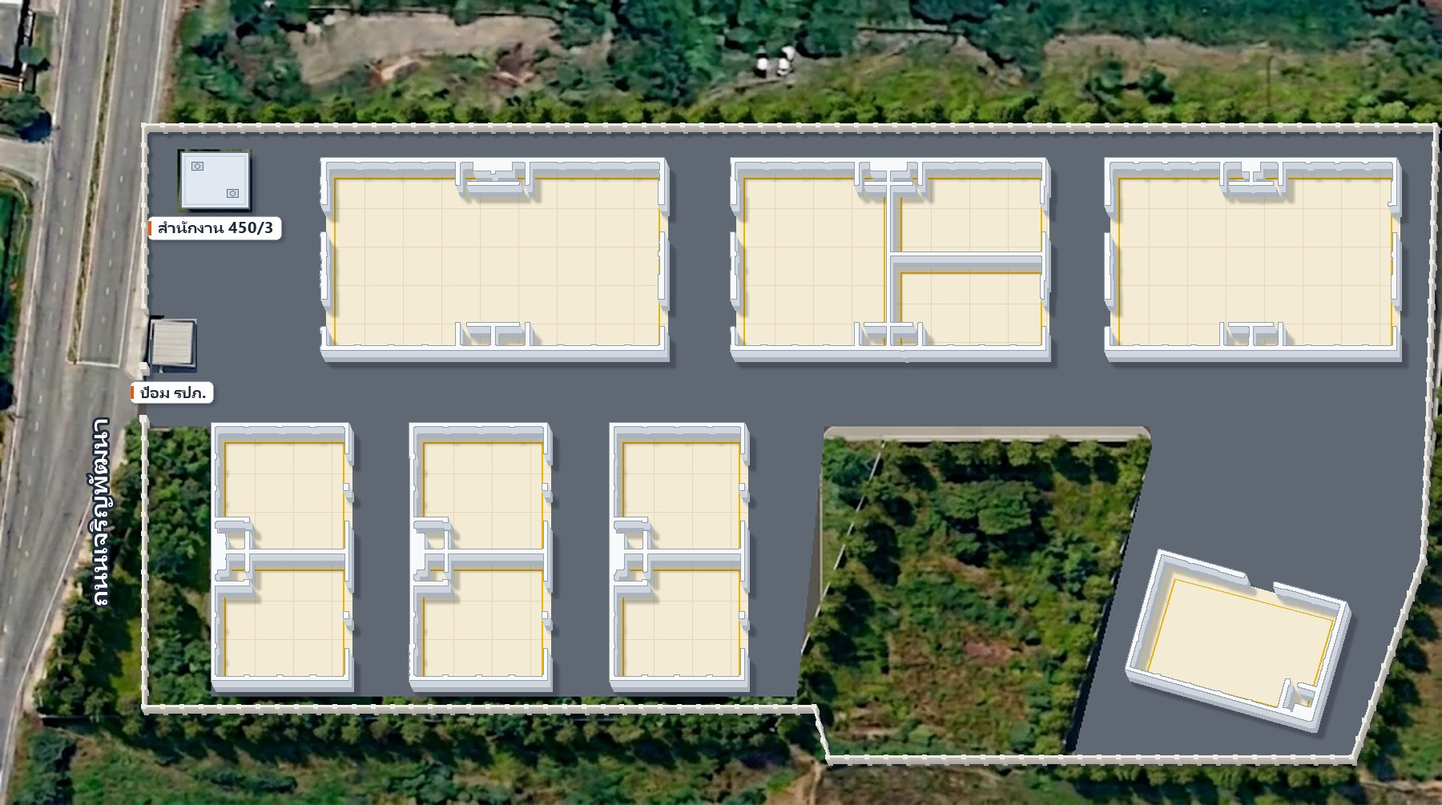
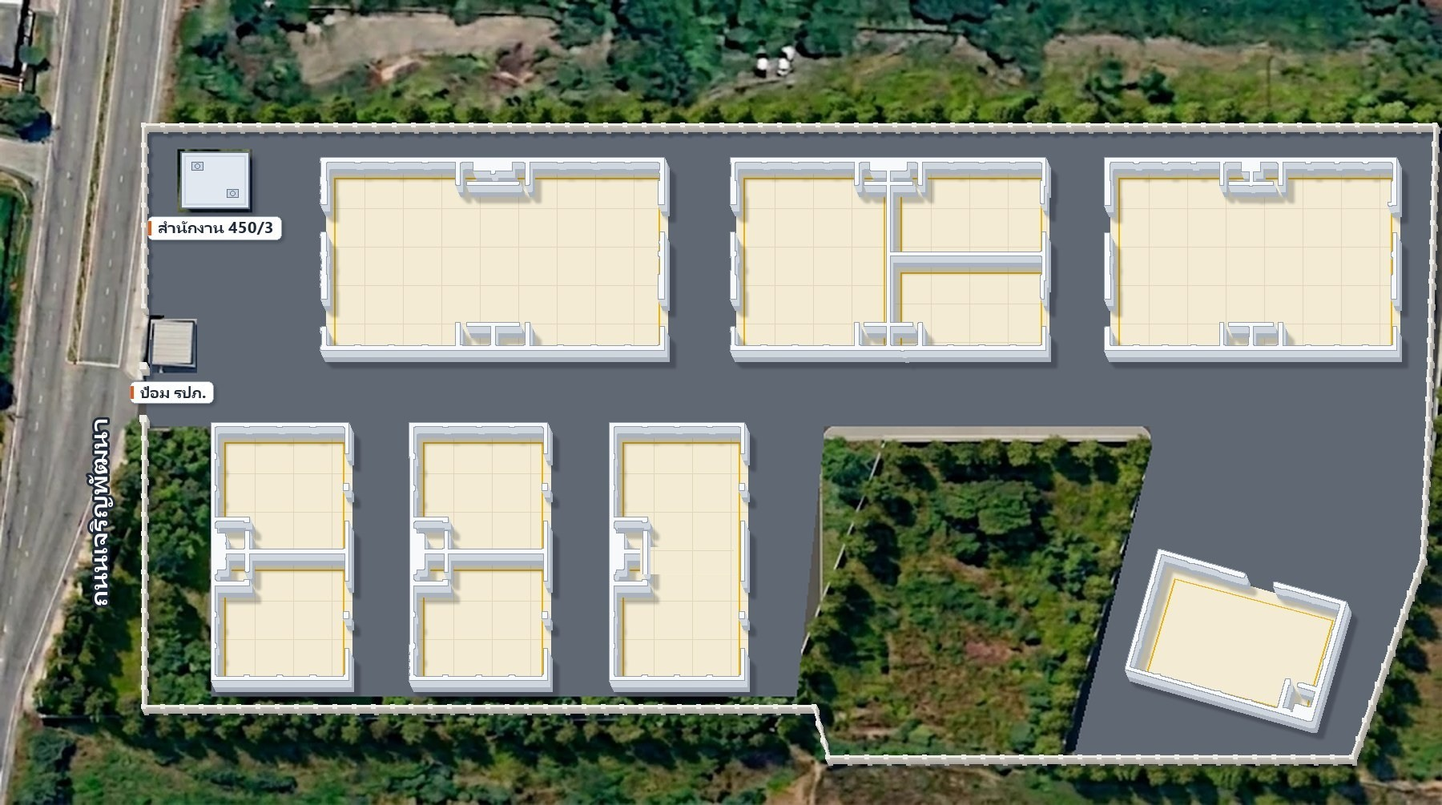
Add files via upload
- แก้ชื่อ บริษัท
- ใส่ช่องประกันกุญแจ
- รวม 448/2 AB

Changed region(s): [[0.4356, 0.6786, 0.5289, 0.7095]]

diff --git a/js/core/contract.js b/js/core/contract.js
@@ -14,7 +14,8 @@ import * as L from './layout.js';
 import { SITE } from '../../site.js';
 
 // ชื่อ/ที่อยู่ผู้ให้เช่า และบัญชีรับเงิน มาจาก ตั้งค่า → ข้อมูลโครงการ
-const PN = en => { const p = M.property(); return (en ? p.nameEn || p.name : p.name) || ''; };
+// ชื่อผู้ให้เช่าในสัญญา: ชื่อนิติบุคคล (ตั้งค่า → ข้อมูลโครงการ หรือ legalName ใน site.js) ถ้าไม่มีใช้ชื่อโครงการ
+const PN = en => { const p = M.property(); return (en ? p.nameEn || p.name : (p.legalName ?? SITE.legalName) || p.name) || ''; };
 const ADDR = en => { const p = M.property(); return (en ? p.addressEn || p.address : p.address) || ''; };
 const BANK = en => M.property().bankText || (en ? 'the bank account notified by the Lessor' : 'บัญชีธนาคารที่ผู้ให้เช่าแจ้งไว้');
 const WIFI = () => M.property().wifi ? 'Wifi password: ' + M.property().wifi : '';
@@ -62,7 +63,7 @@ export function defaults(t) {
   };
 }
 const extraList = C => (C.extras || []).filter(x => has(x.name) || has(x.amt));
-export const total = C => C.kind === 'wh' ? (Number(C.deposit) || 0) + (Number(C.clean) || 0) : ['firstAmount', 'deposit', 'clean', 'fridgeFee', 'motoFee'].reduce((a, k) => a + (Number(C[k]) || 0), 0) + extraList(C).reduce((a, x) => a + (Number(x.amt) || 0), 0);
+export const total = C => C.kind === 'wh' ? (Number(C.deposit) || 0) + (Number(C.clean) || 0) + (Number(C.keyDep) || 0) : ['firstAmount', 'deposit', 'clean', 'fridgeFee', 'motoFee'].reduce((a, k) => a + (Number(C[k]) || 0), 0) + extraList(C).reduce((a, x) => a + (Number(x.amt) || 0), 0);
 
 // ---------- บล็อกเนื้อหา ----------
 // run: { t: ข้อความ, c: สี, b, i, u, dots: จำนวนจุด (ช่องว่าง), nw: ห้ามตัดบรรทัด (กลุ่ม) }
@@ -200,7 +201,7 @@ export function defaultsWH(t) {
     tenantSigner: t.signer || '', phone: t.phone || '',
     lessorSigner: p.signer || prev.lessorSigner || '', witness1: prev.witness1 || '', witness2: '',
     start, end: oneYearEnd(start), rent: String(rent), penalty: String(rent), dueDay: String(M.rates().dueDay || 5),
-    deposit: String(Number(t.deposit) || rent * 2), clean: '3000',
+    deposit: String(Number(t.deposit) || rent * 2), clean: '3000', keyDep: '',
     wRate: String(rt.water ?? 17), wMinUnits: '10', wMinAmount: '160', eRate: String(rt.elec ?? 7), eTable: E_TABLE,
     meterE: last?.e != null ? String(last.e) : '', meterW: last?.w != null ? String(last.w) : '', photos: [],
   };
@@ -223,7 +224,7 @@ const siteStreet = () => ADDR().replace(/^\s*(เลขที่\s*)?[\d/\-]+\s*
 
 function contentWH(C, x) {
   const p = M.property(), co = C.tenantType !== 'person';
-  const money2b = v => money2(v), dep = Number(C.deposit) || 0, cln = Number(C.clean) || 0, tot = dep + cln;
+  const money2b = v => money2(v), dep = Number(C.deposit) || 0, cln = Number(C.clean) || 0, key = Number(C.keyDep) || 0, tot = dep + cln + key;
   const et = String(C.eTable || E_TABLE).split(/[,\s]+/).filter(Boolean);
   const eRows = Array.from({ length: 11 }, (_, i) => i < 10
     ? [String(i), et[i] ?? '', String(11 + i), et[11 + i] ?? '']
@@ -248,6 +249,7 @@ function contentWH(C, x) {
     { k: 'p', in: 1, runs: [B('ข้อที่ 3. '), T('เพื่อเป็นการประกันความเสียหายจากการประพฤติผิดสัญญา “ผู้เช่า” ตกลงวางเงินประกันเป็นจำนวนทั้งสิ้น '), NW(C_(money2(tot), 'red'), T(' บาท')), T(' '), NW(T('('), C_(bahtText(tot), 'red'), T(')')), T(' ประกอบด้วย')] },
     { k: 'items', word: '', unit: 'บาท', rows: [['-', [T('เงินประกันความเสียหาย')], has(C.deposit) ? C_(money2(dep), 'blue') : D(8)],
       ['-', [T('เงินประกันการทำความสะอาด กวาด ถู ไม่มีคราบกาว หรืออันใดที่ต้องใช้สารพิเศษ')], has(C.clean) ? C_(money2(cln), 'blue') : D(8)],
+      ...(key ? [['-', [T('เงินประกันกุญแจ')], C_(money2(key), 'blue')]] : []),
       ['', [B('รวมเป็นจำนวนเงิน')], { ...C_(money2(tot), 'red'), b: 1 }]] },
     { k: 'p', in: 1, runs: [T('หากผู้เช่าไม่ชำระค่าเช่าหรือประพฤติผิดสัญญาข้อหนึ่งข้อใดและทำให้ผู้ให้เช่าได้รับความเสียหายด้วยประการใด ๆ ผู้เช่ายินยอมให้ผู้ให้เช่าหักเงินประกันจำนวนนี้ได้ เพื่อชดใช้ความเสียหายที่ผู้ให้เช่าได้รับตามจำนวนความเสียหายที่แท้จริง หากมีเงินประกันเหลืออยู่อีกเท่าใด ผู้ให้เช่าจะต้องคืนให้แก่ผู้เช่าหลังจากที่ผู้เช่าส่งมอบสถานที่เช่าคืนให้แก่ผู้ให้เช่าเป็นที่เรียบร้อย')] },
     { k: 'p', in: 1, runs: [EM('เงินประกันการเช่านี้ ใช้สำหรับเป็นประกันความเสียหายของสินทรัพย์เท่านั้น ไม่สามารถใช้หักเป็นค่าเช่าได้ทุกกรณี')] },
@@ -268,12 +270,12 @@ function contentWH(C, x) {
     { k: 'p', in: 1, runs: [T('ตลอดระยะเวลาการเช่า ผู้เช่ายินยอมให้ผู้ให้เช่าหรือตัวแทนของผู้ให้เช่าเข้าตรวจดูทรัพย์สินของผู้เช่าและสถานที่เช่าเป็นครั้งคราวในระยะเวลาอันสมควร โดยต้องแจ้งให้ผู้เช่าทราบล่วงหน้า 7 วัน')] },
     { k: 'p', in: 1, sp: 1, runs: [B('ข้อที่ 8. '), T('ค่าน้ำประปา ค่าไฟฟ้า ค่าโทรศัพท์ที่เกี่ยวกับการเช่าตามสัญญา มีเงื่อนไขดังต่อไปนี้')] },
     { k: 'p', in: 1, runs: [T('8.1 ค่าน้ำประปา เป็นมิเตอร์ชั่วคราว คิดค่าน้ำประปาในอัตราหน่วยละ '), V(C.wRate, 'red', 6, money2b), T(' บาท ทั้งนี้หากผู้เช่าใช้น้ำประปาตั้งแต่ 0 - '), V(C.wMinUnits, 'red', 4), T(' หน่วยของมิเตอร์ ผู้เช่าตกลงที่จะจ่ายค่าน้ำในเดือนนั้น ๆ ให้แก่ผู้ให้เช่าตามรายละเอียดดังต่อไปนี้')] },
-    { k: 'grid', title: 'อัตราค่าน้ำประปา', head: ['ปริมาณน้ำใช้ ลูกบาศก์เมตร (หน่วย)', 'ค่าน้ำ (บาท)'],
+    { k: 'grid', title: 'อัตราค่าน้ำประปา', head: ['ปริมาณน้ำใช้ ลูกบาศก์เมตร (หน่วย)', 'ค่าน้ำ (บาท)'], shade: [0],
       rows: [[`0 – ${C.wMinUnits || '…'}`, `เหมาจ่าย ${money2(C.wMinAmount)} บาท`], [`ตั้งแต่หน่วยที่ ${(Number(C.wMinUnits) || 0) + 1} ขึ้นไป`, `หน่วยละ ${money2(C.wRate)} บาท`]] },
     ...(C.selfElec   // ผู้เช่าขอไฟฟ้าจากการไฟฟ้าเอง: ไม่มีตารางค่าไฟ
       ? [{ k: 'p', in: 1, runs: [T('8.2 ผู้เช่าจะทำการชำระค่าไฟฟ้าจากทางการไฟฟ้าเอง โดยเมื่อสิ้นสัญญา ผู้เช่าจะต้องเป็นผู้ดำเนินการโอนมิเตอร์ไฟฟ้ามาให้ทางผู้ให้เช่าจนแล้วเสร็จก่อน จึงจะรับเงินประกันคืน')] }]
       : [{ k: 'p', in: 1, runs: [T('8.2 ค่าไฟฟ้า คิดค่าไฟฟ้าในอัตราหน่วยละ '), V(C.eRate, 'red', 6, money2b), T(' บาท ต่อเดือน ทั้งนี้หากผู้เช่าใช้กระแสไฟฟ้าตั้งแต่ 0 - 20 หน่วยของเครื่องวัด ผู้เช่าตกลงที่จะจ่ายค่าไฟฟ้าในเดือนนั้น ๆ ให้แก่ผู้ให้เช่าตามรายละเอียดดังต่อไปนี้')] },
-        { k: 'grid', title: 'อัตราค่ากระแสไฟฟ้า', head: ['หน่วย', 'บาท', 'หน่วย', 'บาท'], rows: eRows }]),
+        { k: 'grid', title: 'อัตราค่ากระแสไฟฟ้า', head: ['หน่วย', 'บาท', 'หน่วย', 'บาท'], rows: eRows, eq: 1, shade: [0, 2] }]),
     { k: 'page', flow: 1 },
     { k: 'p', in: 1, runs: [T('8.3 ค่าโทรศัพท์ ผู้เช่าเป็นผู้รับผิดชอบในการขอและเป็นผู้ชำระค่าใช้จ่ายเอง ในกรณีที่มีการติดตั้งสายเคเบิล อินเทอร์เน็ต โทรศัพท์ เมื่อสิ้นสุดสัญญาเช่า ผู้เช่าจะรื้อถอนสายออกไป รวมทั้งปิดรูที่เจาะ ตอก หรือดำเนินการอื่นใดเพื่อยึดสายดังกล่าวให้ติดกับอาคารที่เช่า ให้อยู่ในสภาพเดิม')] },
     { k: 'p', in: 1, sp: 1, runs: [B('ข้อที่ 9. '), T('ค่าภาษีที่ดินและสิ่งปลูกสร้าง “ผู้ให้เช่า” เป็นผู้รับผิดชอบ')] },
@@ -398,6 +400,8 @@ const CSS = `
 .ct-grid{border-collapse:collapse;margin:4px auto 8px;font-size:14.5px;line-height:1.5}
 .ct-grid th,.ct-grid td{border:1px solid #000;padding:1px 10px;text-align:center;font-weight:400}
 .ct-grid th{font-weight:700}
+.ct-grid.eq{table-layout:fixed;width:150mm}.ct-grid.eq td,.ct-grid.eq th{padding:1px 4px}
+.ct-grid .sh{background:#ddebf7;-webkit-print-color-adjust:exact;print-color-adjust:exact}
 .ct-pg>*{position:relative}
 .ct-hd{text-align:center;font-weight:700;font-size:16px;line-height:1.6;border-bottom:2.5px solid #1F4E79;padding-bottom:3px;margin:0 -2mm 14px}
 .ct-ft{position:absolute!important;left:18mm;right:18mm;bottom:9mm;border-top:2.5px solid #1F4E79}
@@ -469,7 +473,8 @@ function blockHtml(b, ctx) {
       return `<p class="${[b.in ? 'in' : '', b.ind ? 'ind' : '', b.sp ? 'sp' : '', b.center ? 'ctr' : '', j ? 'j' : ''].join(' ')}">${runsHtml(b.runs, j)}</p>`; }
     case 'rate': return `<div class="ct-rate"><span>${esc(b.a)}</span><span>${esc(b.b)}</span></div>`;
     case 'items': return `<table class="ct-items">${b.rows.map(([n, r, a]) => `<tr><td style="width:9mm">${n}</td><td>${runsHtml(r)}</td><td class="l">${esc(b.word)}</td><td class="a">${runHtml(a)}</td><td class="u">${esc(b.unit)}</td></tr>`).join('')}</table>`;
-    case 'grid': return `<div class="ctr" style="margin-top:4px"><b>${esc(b.title || '')}</b></div><table class="ct-grid"><tr>${b.head.map(h => `<th>${esc(h)}</th>`).join('')}</tr>${b.rows.map(r => `<tr>${r.map(v => `<td>${esc(v)}</td>`).join('')}</tr>`).join('')}</table>`;
+    case 'grid': { const sh = i => (b.shade || []).includes(i) ? ' class="sh"' : '';   // eq = ช่องกว้างเท่ากัน · shade = คอลัมน์ "หน่วย" สีฟ้าอ่อน
+      return `<div class="ctr" style="margin-top:4px"><b>${esc(b.title || '')}</b></div><table class="ct-grid${b.eq ? ' eq' : ''}">${b.eq ? `<colgroup>${b.head.map(() => `<col style="width:${(100 / b.head.length).toFixed(3)}%">`).join('')}</colgroup>` : ''}<tr>${b.head.map((h, i) => `<th${sh(i)}>${esc(h)}</th>`).join('')}</tr>${b.rows.map(r => `<tr>${r.map((v, i) => `<td${sh(i)}>${esc(v)}</td>`).join('')}</tr>`).join('')}</table>`; }
     case 'qr': return ctx.qr ? `<div class="ct-qr"><img src="${ctx.qr}" alt="QR"></div>` : '';
     case 'group': return `<div>${b.blocks.map(x => blockHtml(x, ctx)).join('')}</div>`;
     case 'sign': {
@@ -587,8 +592,10 @@ async function blockDocx(b, ctx) {
     case 'rate': return P(runX({ t: b.a }) + tab() + runX({ t: b.b }), { ind: 680, tabs: TABS([2400]) });
     case 'items': return b.rows.map(([n, r, a]) => P(runX({ t: n }) + tab() + flat(r).map(runX).join('') + tab() + runX({ t: b.word }) + tab() + runX(a) + tab() + runX({ t: b.unit }),
       { ind: 340, tabs: TABS([900], [6500], [8550, 'right'], [8750]) })).join('');
-    case 'grid': { const n = b.head.length, w = Math.floor((n > 2 ? 7600 : 6000) / n), ws = Array(n).fill(w), cell = (v, bold) => cellX(w, P(runX({ t: String(v), b: bold ? 1 : 0, sz: 28 }), { jc: 'center' }), { border: 1, vAlign: 'center' });
-      return P(runX({ t: b.title || '', b: 1 }), { jc: 'center', before: 120 }) + `<w:tbl><w:tblPr><w:tblW w:w="${w * n}" w:type="dxa"/><w:jc w:val="center"/><w:tblLayout w:type="fixed"/></w:tblPr><w:tblGrid>${ws.map(x => `<w:gridCol w:w="${x}"/>`).join('')}</w:tblGrid><w:tr>${b.head.map(h => cell(h, 1)).join('')}</w:tr>${b.rows.map(r => `<w:tr>${r.map(v => cell(v)).join('')}</w:tr>`).join('')}</w:tbl>` + P(''); }
+    case 'grid': { const n = b.head.length, w = Math.floor((n > 2 ? 8500 : 6000) / n), ws = Array(n).fill(w);
+      const cell = (v, bold, i) => cellX(w, P(runX({ t: String(v), b: bold ? 1 : 0, sz: 28 }), { jc: 'center' }), { border: 1, vAlign: 'center' })
+        .replace('</w:tcPr>', (b.shade || []).includes(i) ? '<w:shd w:val="clear" w:color="auto" w:fill="DDEBF7"/></w:tcPr>' : '</w:tcPr>');
+      return P(runX({ t: b.title || '', b: 1 }), { jc: 'center', before: 120 }) + `<w:tbl><w:tblPr><w:tblW w:w="${w * n}" w:type="dxa"/><w:jc w:val="center"/><w:tblLayout w:type="fixed"/></w:tblPr><w:tblGrid>${ws.map(x => `<w:gridCol w:w="${x}"/>`).join('')}</w:tblGrid><w:tr>${b.head.map((h, i) => cell(h, 1, i)).join('')}</w:tr>${b.rows.map(r => `<w:tr>${r.map((v, i) => cell(v, 0, i)).join('')}</w:tr>`).join('')}</w:tbl>` + P(''); }
     case 'qr': return ctx.qr ? P(ctx.wr.drawing(ctx.wr.addImage(ctx.qr), ...fit(ctx.qrSize, 120, 46)), { jc: 'center', before: 120, after: 120 }) : '';
     case 'group': return (await Promise.all(b.blocks.map(x => blockDocx(x, ctx)))).join('');
     case 'sign': {

diff --git a/js/modules/contract.js b/js/modules/contract.js
@@ -474,7 +474,8 @@ async function openContractWH(tIn = {}, done) {
           ${f('dueDay', 'ชำระภายในวันที่ (ของทุกเดือน)', 'f-red', 'inputmode="numeric"')}
           <div class="full">${f('penalty', 'ค่าปรับต่อเดือน กรณีไม่ขนย้ายออกเมื่อสิ้นสุดสัญญา (บาท)', 'f-red', num).slice(5, -6)}<div class="auto">ตั้งต้น = ค่าเช่า 1 เดือน ตามสัญญาเดิม</div></div>
           ${f('deposit', 'เงินประกันความเสียหาย (บาท)', 'f-blue', num)}${f('clean', 'เงินประกันการทำความสะอาด (บาท)', 'f-blue', num)}
-          <div class="full"><label class="l">รวมเงินประกัน (ข้อ 3)</label><input class="f-red" id="c-total" disabled></div>
+          ${f('keyDep', 'เงินประกันกุญแจ (บาท)', 'f-blue', num)}
+          <div><label class="l">รวมเงินประกัน (ข้อ 3)</label><input class="f-red" id="c-total" disabled></div>
         </div></div>
       <div class="sec"><h4>💧⚡ 3. ค่าน้ำ ค่าไฟ และมิเตอร์ (ข้อ 8)</h4>
         <label class="wh-sw"><input type="checkbox" id="c-self" ${C.selfElec ? 'checked' : ''}><i></i><span><b>ผู้เช่าขอไฟฟ้าจากการไฟฟ้าเอง</b><br><span class="note">ไม่คิดค่าไฟในบิล · ไม่มีช่องจดมิเตอร์ไฟ · ข้อ 8.2 เปลี่ยนเป็นเงื่อนไขโอนมิเตอร์คืนก่อนรับเงินประกัน</span></span></label>
@@ -624,7 +625,7 @@ async function openContractWH(tIn = {}, done) {
     const rec = { ...db.get('tenants', t.id) || t, room: C.room };
     Object.assign(rec, { name: C.tenantName.trim(), phone: String(C.phone).trim(), address: String(C.tenantAddress || '').trim(),
       taxId: C.tenantType !== 'person' ? String(C.tenantTaxId).trim() : '', idNo: C.tenantType === 'person' ? String(C.tenantTaxId).trim() : (rec.idNo || ''),
-      signer: String(C.tenantSigner || '').trim(), rent: Number(C.rent) || 0, deposit: (Number(C.deposit) || 0) + (Number(C.clean) || 0),
+      signer: String(C.tenantSigner || '').trim(), rent: Number(C.rent) || 0, deposit: K.total(C),
       wRate: C.wRate === '' ? null : Number(C.wRate), eRate: C.eRate === '' ? null : Number(C.eRate),
       // มิเตอร์และไฟฟ้า: ใช้ตอนออกบิล (core/model.js meterSetup)
       selfElec: !!C.selfElec, meters: { w: K.meterList(C, 'w').map(m => m.name), e: K.meterList(C, 'e').map(m => m.name) },

diff --git a/js/modules/settings.js b/js/modules/settings.js
@@ -104,6 +104,7 @@ export default {
         <form class="form" style="margin-top:12px">
           <label>ชื่อโครงการ</label><input id="pname" value="${esc(p.name)}">
           <label>ชื่ออังกฤษ</label><input id="pnameen" value="${esc(p.nameEn)}">
+          <label>ชื่อนิติบุคคลผู้ให้เช่า (ใช้ในสัญญา)</label><input id="plegal" value="${esc(p.legalName ?? SITE.legalName ?? '')}" placeholder="เว้นว่าง = ใช้ชื่อโครงการ เช่น บริษัท … จำกัด">
           <label>ที่อยู่</label><input id="paddr" value="${esc(p.address)}">
           <label>โทร</label><input id="pphone" value="${esc(p.phone)}">
           <label>เลขผู้เสียภาษี</label><input id="ptax" value="${esc(p.taxId)}">
@@ -158,7 +159,7 @@ export default {
 
     $e('#saveRates').onclick = async () => { await db.put('settings', { ...rt, id: 'rates', water: num(el, 'water'), elec: num(el, 'elec'), parkingFee: num(el, 'pfee'), fridgeFee: num(el, 'ffee'), dueDay: num(el, 'due') || 5, maxOccupants: num(el, 'maxocc'),
       minOn: $e('#minon').checked, minWaterUnits: num(el, 'mwu'), minElecUnits: num(el, 'meu') }); toast('บันทึกอัตราแล้ว'); };
-    $e('#saveProp').onclick = async () => { await db.put('settings', { ...p, id: 'property', name: val(el, 'pname'), nameEn: val(el, 'pnameen'), address: val(el, 'paddr'), addressEn: val(el, 'paddren'), bankText: val(el, 'pbank'), wifi: val(el, 'pwifi'), phone: val(el, 'pphone'), taxId: val(el, 'ptax'),
+    $e('#saveProp').onclick = async () => { await db.put('settings', { ...p, id: 'property', name: val(el, 'pname'), nameEn: val(el, 'pnameen'), legalName: val(el, 'plegal'),address: val(el, 'paddr'), addressEn: val(el, 'paddren'), bankText: val(el, 'pbank'), wifi: val(el, 'pwifi'), phone: val(el, 'pphone'), taxId: val(el, 'ptax'),
       promptpay: val(el, 'ppp'), billNote: val(el, 'pnote'), billNoteEn: val(el, 'pnoteen'), showQr: $e('#pqr').checked, claudeSlip: $e('#pclaude').checked }); toast('บันทึกแล้ว'); };
     $e('#auto').onchange = async e => { await sync.autoUpload(e.target.checked); toast(e.target.checked ? 'เปิดอัปโหลดอัตโนมัติ' : 'ปิดอัปโหลดอัตโนมัติ'); };
     $e('#testApi')?.addEventListener('click', async () => {

diff --git a/js/modules/floorplan.js b/js/modules/floorplan.js
@@ -69,14 +69,14 @@ function popupHtml(id) {
   const t = M.tenantOf(id), c = t?.contract?.kind === 'wh' ? t.contract : null, r = db.get('rooms', id) || {};
   let html = detail(id);
   if (t) {
-    const x = M.contractExpiry(t), dep = Number(c?.deposit) || 0, cln = Number(c?.clean) || 0, area = Number(r.area) || Number(c?.area);
+    const x = M.contractExpiry(t), dep = Number(c?.deposit) || 0, cln = Number(c?.clean) || 0, key = Number(c?.keyDep) || 0, area = Number(r.area) || Number(c?.area);
     const mt = k => (t.meters?.[k] || []).length > 1 ? t.meters[k].map(esc).join(' · ') : (t.meters?.[k]?.length ? '1 มาตร' : '-');
     const row = (k, v) => v ? `<dt>${k}</dt><dd>${v}</dd>` : '';
     const block = `<div class="fp-ct"><h4>📝 สัญญาเช่า</h4><dl>
       ${row('เลขที่สัญญา', c ? esc(c.contractNo || '-') : '<span class="pill warn">ยังไม่ได้ทำสัญญาในระบบ</span>')}
       ${row('เนื้อที่', area ? `${fmt0(area)} ตร.ม.` : '')}
       ${c ? row('เริ่มเช่า', thDate(c.start)) + row('สิ้นสุดสัญญา', `<span class="${x?.soon ? 'blink-red' : ''}">${thDate(c.end)}</span> <span class="note ${x?.soon ? 'blink-red' : ''}">(${esc(x?.label || '')})</span>`) : ''}
-      ${c ? row('เงินประกัน', `ความเสียหาย ฿${fmt0(dep)} + ทำความสะอาด ฿${fmt0(cln)} = <b>฿${fmt0(dep + cln)}</b>`) : ''}
+      ${c ? row('เงินประกัน', `ความเสียหาย ฿${fmt0(dep)} + ทำความสะอาด ฿${fmt0(cln)}${key ? ` + กุญแจ ฿${fmt0(key)}` : ''} = <b>฿${fmt0(dep + cln + key)}</b>`) : ''}
       ${row('มิเตอร์น้ำ', mt('w'))}${row('ไฟฟ้า', t.selfElec ? '<span class="pill idle">⚡ ผู้เช่าขอไฟฟ้าจากการไฟฟ้าเอง</span>' : mt('e'))}
     </dl></div>`;
     html = html.replace('<dl>', block + '<dl>');

diff --git a/js/core/model.js b/js/core/model.js
@@ -267,8 +267,12 @@ export async function migrateData() {
   if (siteUnits.length) {
     const ids = new Set(siteUnits.map(u => u.id));
     const used = new Set([...db.all('tenants', { raw: true }), ...db.all('bills', { raw: true })].map(o => String(o.room || '')));
-    for (const r of db.all('rooms', { withDeleted: true, raw: true }))
-      if (!ids.has(r.id) && r.updatedBy === 'seed' && !used.has(r.id)) await db.hardRemove('rooms', r.id);
+    for (const r of db.all('rooms', { withDeleted: true, raw: true })) {
+      if (ids.has(r.id) || used.has(r.id)) continue;
+      // คลังที่เลิกใช้ (SITE.retired เช่น รวม 448/2-A + 448/2-B เป็น 448/2AB): ลบแบบซิงก์ให้ทุกเครื่อง
+      if ((SITE.retired || []).includes(r.id)) { if (!r.deleted) await db.remove('rooms', r.id); }
+      else if (r.updatedBy === 'seed') await db.hardRemove('rooms', r.id);
+    }
     const add = siteUnits.filter(u => !db.all('rooms', { withDeleted: true, raw: true }).some(r => r.id === u.id))
       .map(u => ({ ...u, kind: 'room', label: '', type: SITE.unitType || '', rent: 0, updatedAt: '2000-01-01T00:00:00.000Z', updatedBy: 'seed' }));
     if (add.length) await db.putMany('rooms', add);

diff --git a/sw.js b/sw.js
@@ -1,7 +1,7 @@
 // Service worker: เก็บไฟล์แอปไว้ในเครื่องเพื่อเปิดใช้งานได้แม้ไม่มีอินเทอร์เน็ต
 // มีเน็ต → ดึงไฟล์ล่าสุดจาก server เสมอ (ได้เวอร์ชันใหม่ทันที) / ไม่มีเน็ตหรือช้าเกิน 4 วินาที → ใช้ไฟล์ในเครื่อง
 // เมื่อแก้ไฟล์ในแอป ให้เปลี่ยน VERSION ด้วย
-const VERSION = 'reapms-8ab831b8-v1.3.0-2611152200';
+const VERSION = 'reapms-8ab831b8-v1.3.2-2611162200';
 const SHELL = [
   './', 'index.html', 'site.js', 'js/core/layout.js', 'js/core/security.js', 'js/core/access.js', 'js/modules/audit.js', 'js/modules/lock.js', 'manifest.webmanifest', 'icons/icon.svg', 'css/app.css', 'assets/logo.png', 'assets/brand-logo.png', 'assets/signature.png', 'assets/payment-qr.png',
   'assets/nav/dashboard.png', 'assets/nav/floorplan.png', 'assets/nav/parking.png', 'assets/nav/billing.png', 'assets/nav/tenants.png', 'assets/nav/reports.png', 'assets/nav/users.png',

diff --git a/site.js b/site.js
@@ -7,6 +7,7 @@ export const SITE = {
     "hubUrl":  "",
     "name":  "มีชัย เรียลเอสเตท",
     "nameEn":  "Meechai Real Estate",
+    "legalName":  "บริษัท มีชัย เรียลเอสเตท จำกัด",
     "kind":  "warehouse",
     "unit":  "คลัง",
     "unitEn":  "Warehouse",
@@ -34,11 +35,14 @@ export const SITE = {
                                      "448-B",
                                      "448/1-A",
                                      "448/1-B",
-                                     "448/2-A",
-                                     "448/2-B"
+                                     "448/2AB"
                                  ]
                    }
                ],
+    "retired":  [
+                    "448/2-A",
+                    "448/2-B"
+                ],
     "slots":  [
 
               ],
